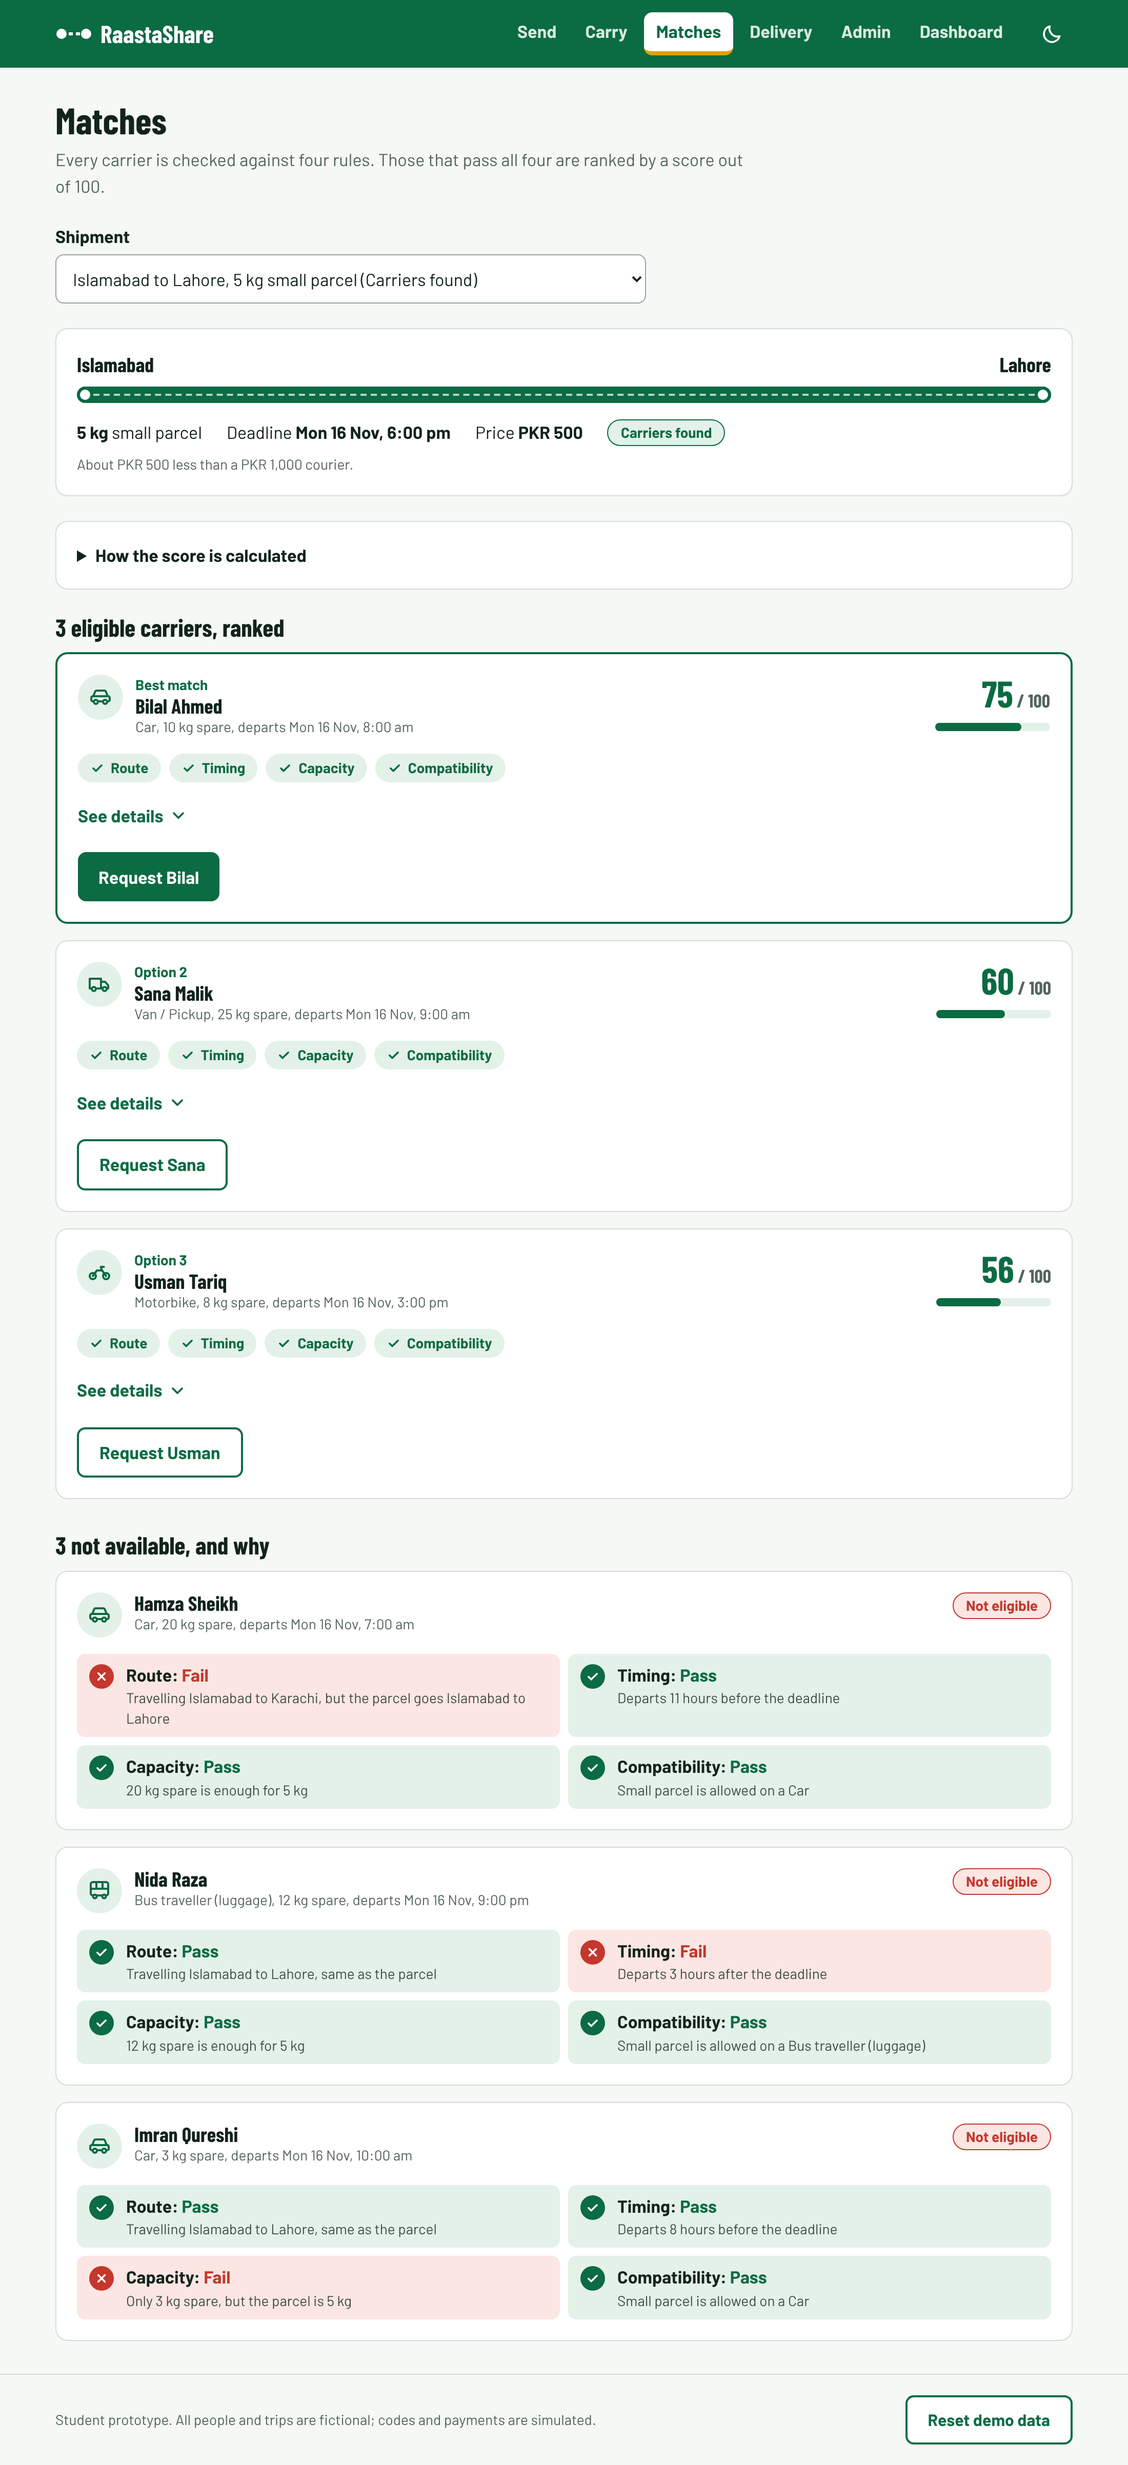
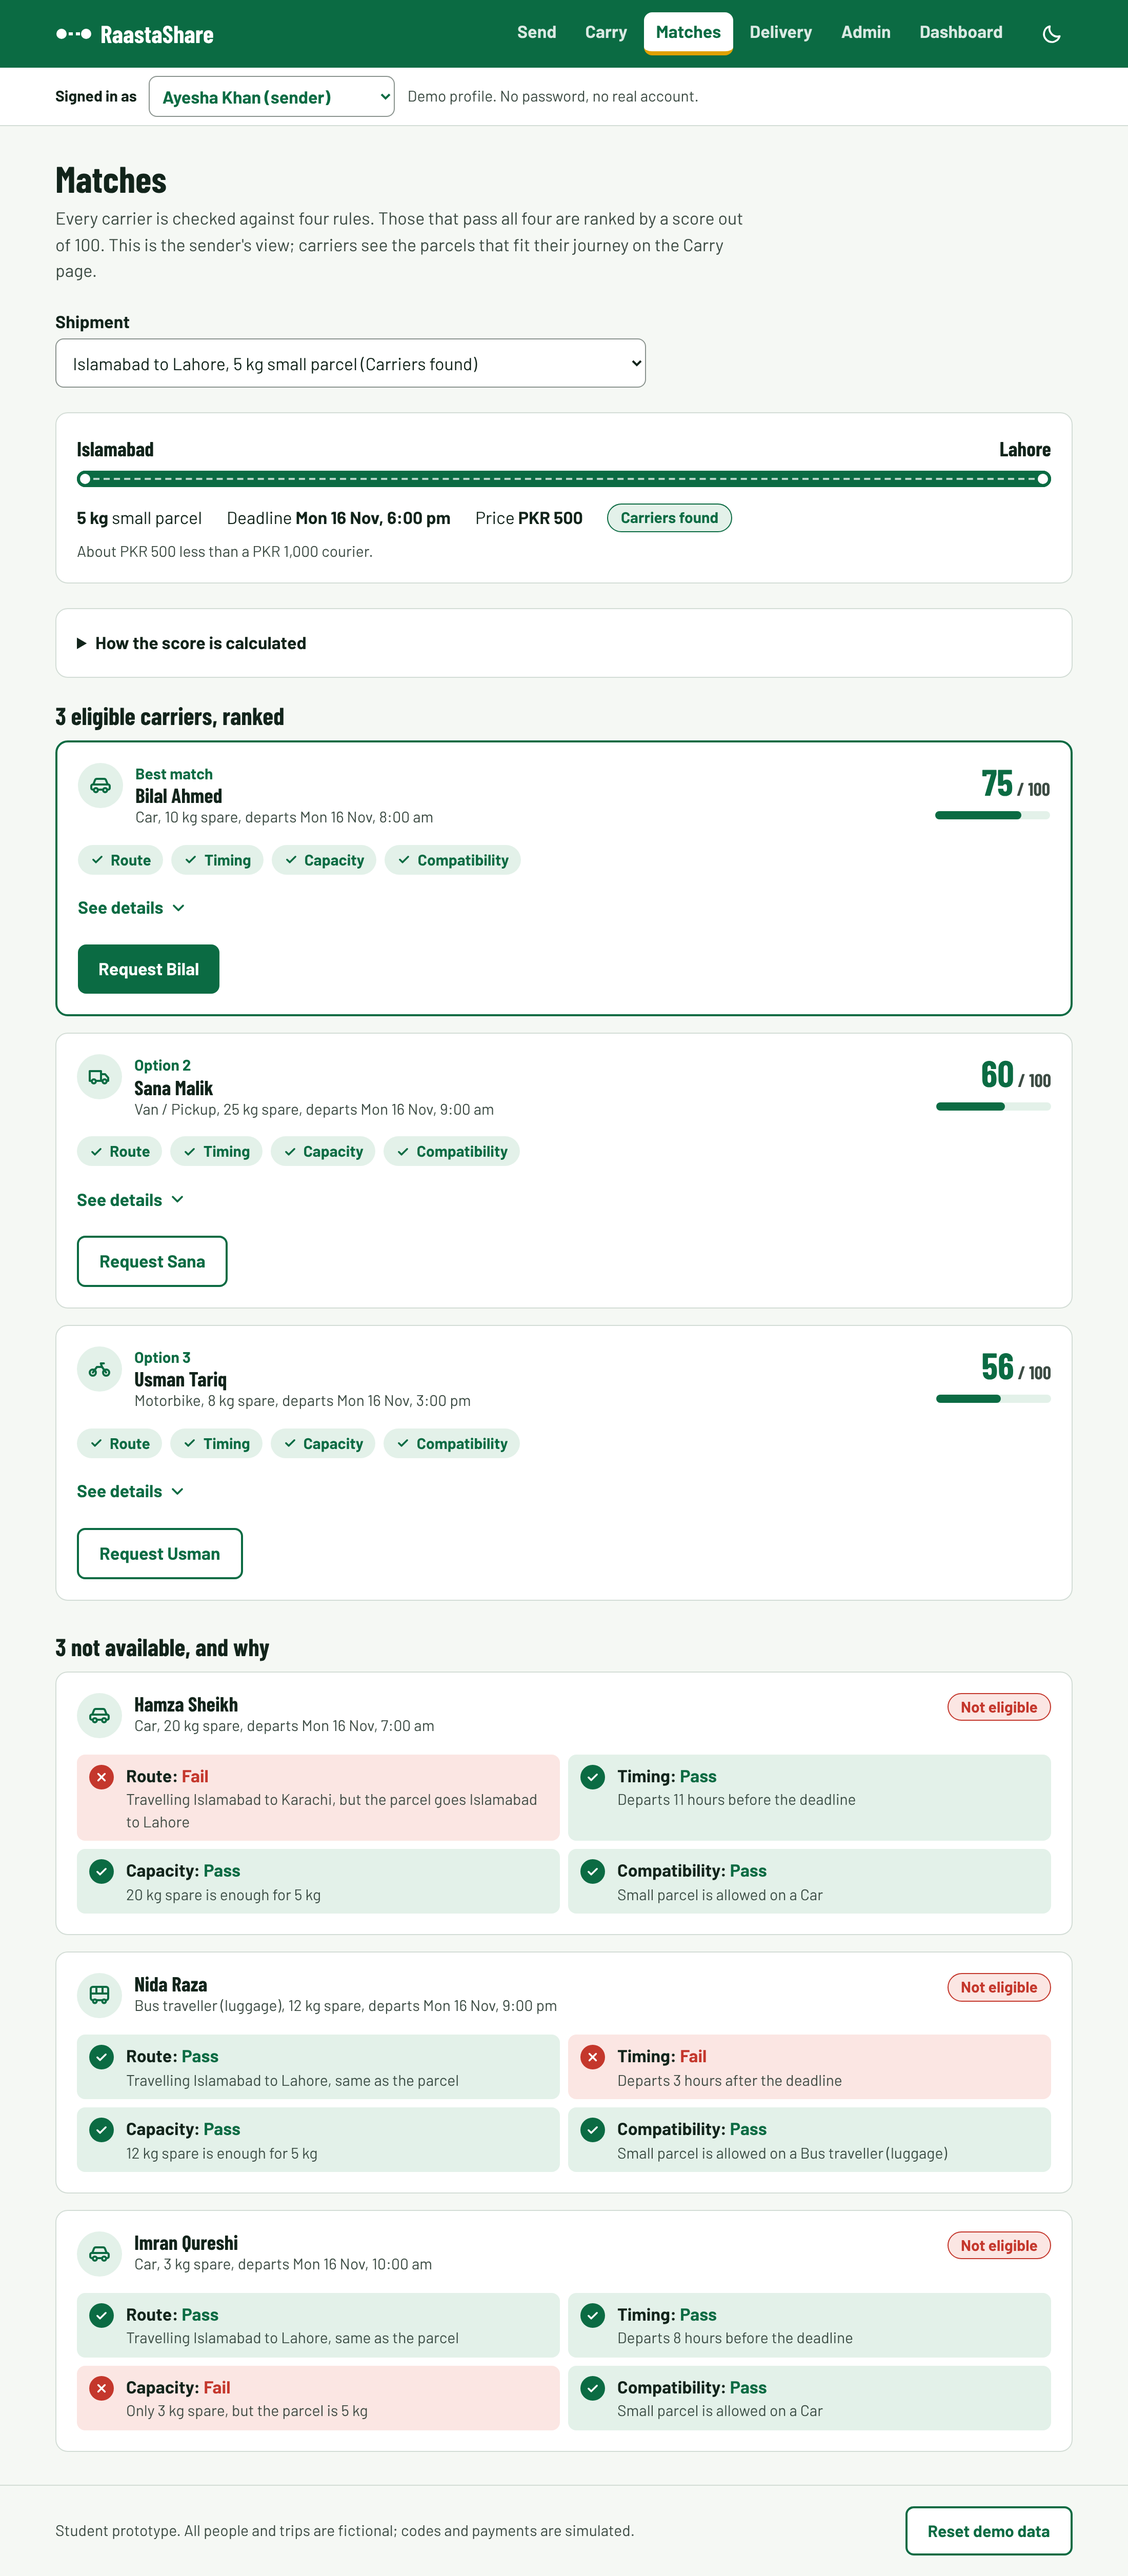
Document the simulated sign-in and how to undo it
Claude-Session: https://claude.ai/code/session_01KMX8YgVyAEEbRayQVQssk2

diff --git a/BUILD_LOG.md b/BUILD_LOG.md
@@ -408,3 +408,33 @@ Screenshots: `test-screenshots/design-pass/redesign-*.png`.
   carrier, was added to the "Posting as" list so his journey can be viewed.
   Checked for four carriers, after posting a second journey, and through the
   "Offer to carry" path. All 8 tests re-run: 8 of 8 passed.
+
+## Stage 17: simulated sign-in
+
+A team idea, kept inside the proposal's limits: the proposal says users
+"choose a Sender or Carrier profile instead of a full login", and lists real
+login as future work. So this is a profile picker, not a login.
+
+- **"Signed in as" picker** (`src/lib/profile.js`, shown under the header on
+  every page): choose one of the fictional senders or carriers. No passwords,
+  no real accounts; the choice is remembered in the browser.
+- **Send and Carry** use the signed-in person, so their "Posting as" fields
+  are gone. Opening a page with the wrong role shows a notice with a button
+  to switch (`src/components/RoleNotice.jsx`).
+- **Delivery:** each person can only accept (or decline) as themselves. The
+  other person's row offers a "Switch to ..." button. Someone not involved in
+  the delivery sees no accept buttons.
+- **Home:** "I am a sender / carrier" also signs you in with that role.
+- **Not restricted:** entering the pickup and delivery codes, the Matches
+  page, and the Admin page work for any profile.
+- **Tests:** `tests/run-tests.cjs` now switches to the carrier before
+  accepting on their side. All 8 tests pass.
+- **Also in this change:** the blank space beside the route map on the Send
+  page is gone (the four route and parcel fields now stack beside the map).
+
+**How to undo the sign-in.** It is one commit, `d633586` ("Preview: simulated
+sign-in with demo profiles"). Reverting that commit brings back the "Posting
+as" fields and the two accept buttons, and keeps the Send page layout fix.
+This was tried before release: with the commit reverted, the app built and
+all 8 tests passed. On GitHub, the pull request's own "Revert" button would
+undo the layout fix as well, so revert the single commit instead.

diff --git a/README.md b/README.md
@@ -77,11 +77,11 @@ shows what was sent.
 
 | Page | What it does |
 |---|---|
-| Home | Choose a Sender or Carrier profile |
+| Home | Choose a Sender or Carrier profile (this also signs you in as a demo person with that role) |
 | Send | Post a shipment, including the prohibited-items checklist |
 | Carry | Post a journey with vehicle type and spare capacity; see the parcels that fit a journey and offer to carry one |
 | Matches | The sender's view: ranked carriers, with a pass or fail for each of the four rules |
-| Delivery | Accept the match, pickup code, delivery code, escrow release |
+| Delivery | Each person accepts as themselves, then pickup code, delivery code, escrow release |
 | Admin | Flagged, unmatched and disputed requests for human review |
 | Dashboard | Total shipments, matches, average matching time, cost saved |
 
@@ -108,7 +108,7 @@ Carriers that pass are ranked by a score out of 100:
 | Data storage | Real, local | Saved in the browser's localStorage so the demo works offline |
 | Make.com / Google Sheets / email | Real when connected | The app posts to the webhook URL in `.env.local`; the Make.com scenario and Sheet are set up separately |
 | Looker Studio dashboard | Real | Reads the Google Sheet (link above); the in-app Dashboard shows the same metrics from this device's data |
-| User accounts | Simulated | Pre-loaded demo profiles instead of a login |
+| User accounts | Simulated | A "Signed in as" picker with fictional demo senders and carriers. No passwords and no real accounts |
 | OTP codes | Simulated | Random 4-digit codes shown on screen instead of SMS |
 | Payment | Simulated | Escrow is a status tracked in the app; no real money or wallet |
 | Test data | Simulated | Fictional senders and carriers; no real personal data |
